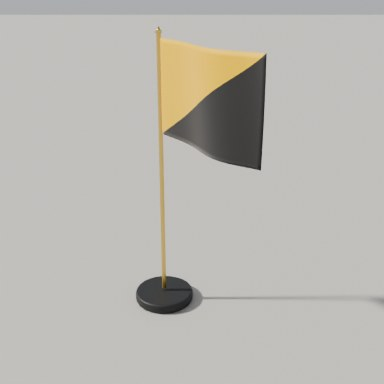
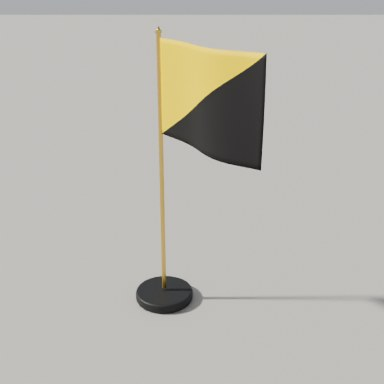
Ancap flag: true yellow gold (was reading orange/mutualist); recording-ready narration
Claude-Session: https://claude.ai/code/session_01EgStzJ3TPUa8ByCo5bYLDX

Changed region(s): [[0.4062, 0.25, 0.5938, 0.4375]]

diff --git a/freemarket_defense/scripts/intro.py b/freemarket_defense/scripts/intro.py
@@ -177,7 +177,7 @@ def make_intro(title, bg_path, out_dir, name="Dan Engerer", photo=PHOTO, fps=24,
             fw, fh = 30, 20
             pin = Image.new("RGBA", (fw * 4, fh * 4), (0, 0, 0, 0))
             pd = ImageDraw.Draw(pin)
-            pd.polygon([(0, 0), (fw * 4, 0), (0, fh * 4)], fill=(242, 181, 12, 255))   # gold upper-hoist
+            pd.polygon([(0, 0), (fw * 4, 0), (0, fh * 4)], fill=(255, 204, 0, 255))   # gold upper-hoist
             pd.polygon([(fw * 4, 0), (fw * 4, fh * 4), (0, fh * 4)], fill=(20, 20, 22, 255))  # black lower-fly
             mask = Image.new("L", (fw * 4, fh * 4), 0)
             ImageDraw.Draw(mask).rounded_rectangle((0, 0, fw * 4 - 1, fh * 4 - 1), radius=10, fill=255)

diff --git a/freemarket_defense/library/scripts/build_symbols.py b/freemarket_defense/library/scripts/build_symbols.py
@@ -10,7 +10,7 @@ from thumb import thumbnail, contact_sheet
 
 LIB = os.path.join(HERE, "..")
 bpy.ops.wm.read_factory_settings(use_empty=True)
-GOLD = (0.88, 0.56, 0.0)
+GOLD = (1.0, 0.8, 0.0)
 BLACK = (0.018, 0.018, 0.02)
 
 
@@ -33,7 +33,7 @@ def ancap_material():
     mx.inputs[6].default_value = (*BLACK, 1); mx.inputs[7].default_value = (*GOLD, 1)
     l.new(mx.outputs[2], b.inputs["Base Color"])
     b.inputs["Roughness"].default_value = 0.6
-    b.inputs["Sheen Weight"].default_value = 0.3
+    b.inputs["Sheen Weight"].default_value = 0.0
     return m
 
 
